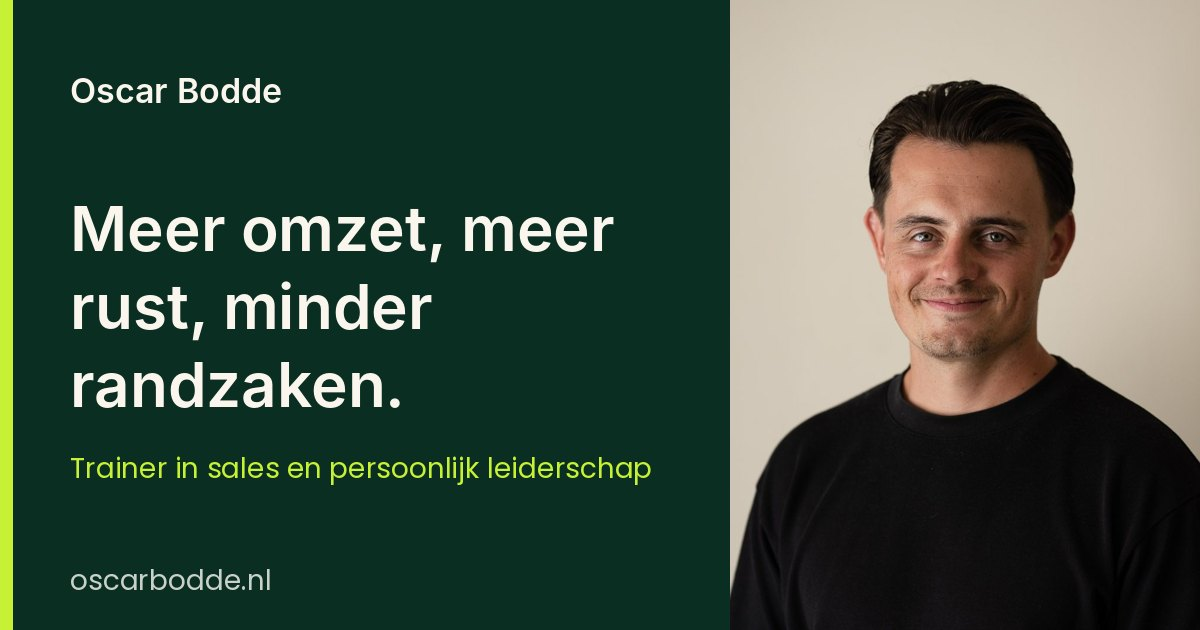
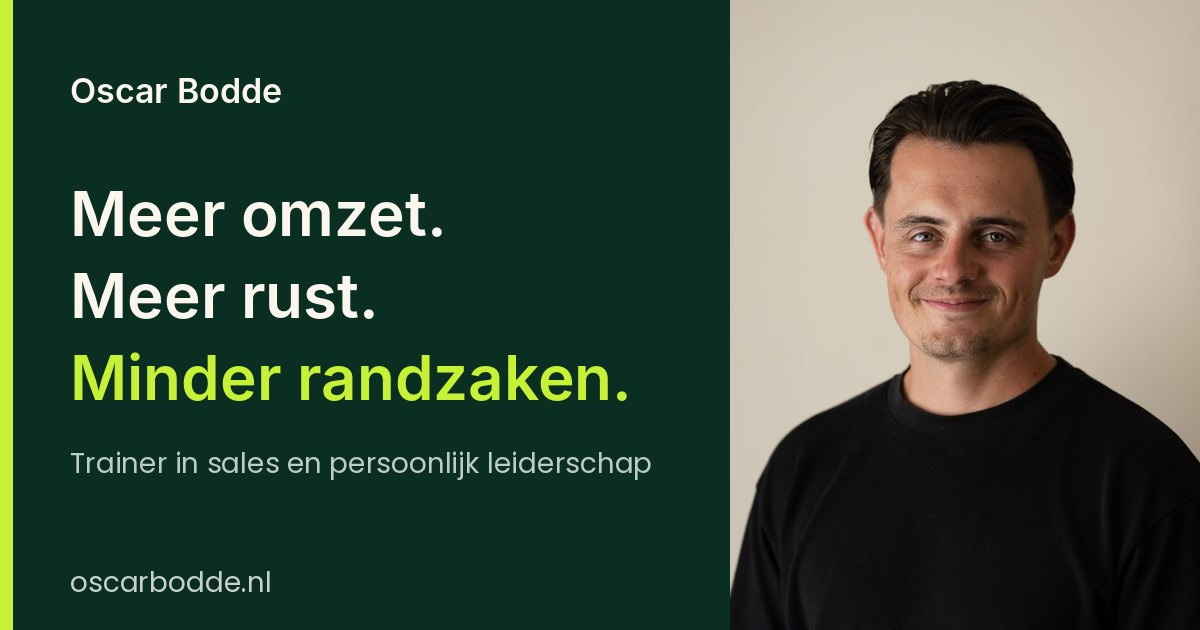
Add files via upload

Changed region(s): [[0.0617, 0.3016, 0.5242, 0.6635], [0.0617, 0.7238, 0.555, 0.7841], [0.0617, 0.9048, 0.2158, 0.9349]]

diff --git a/index.html b/index.html
@@ -4,7 +4,7 @@
 <meta charset="UTF-8">
 <meta name="viewport" content="width=device-width, initial-scale=1.0">
 <title>Oscar Bodde | Trainer sales en persoonlijk leiderschap | Apeldoorn</title>
-<meta name="description" content="Meer omzet, meer rust, minder randzaken. Oscar Bodde traint ondernemers in sales en persoonlijk leiderschap en bouwt systemen die het werk overnemen.">
+<meta name="description" content="Meer omzet. Meer rust. Minder randzaken. Oscar Bodde traint ondernemers in sales en persoonlijk leiderschap en bouwt systemen die het werk overnemen.">
 <meta name="robots" content="index, follow, max-image-preview:large">
 <link rel="canonical" href="https://oscarbodde.nl/">
 <script type="application/ld+json">
@@ -65,7 +65,7 @@
 <meta property="og:type" content="website">
 <meta property="og:site_name" content="Oscar Bodde">
 <meta property="og:title" content="Oscar Bodde | Trainer sales en persoonlijk leiderschap | Apeldoorn">
-<meta property="og:description" content="Meer omzet, meer rust, minder randzaken. Oscar Bodde traint ondernemers in sales en persoonlijk leiderschap en bouwt systemen die het werk overnemen.">
+<meta property="og:description" content="Meer omzet. Meer rust. Minder randzaken. Oscar Bodde traint ondernemers in sales en persoonlijk leiderschap en bouwt systemen die het werk overnemen.">
 <meta property="og:url" content="https://oscarbodde.nl/">
 <meta property="og:image" content="https://oscarbodde.nl/images/og-home.jpg">
 <meta property="og:image:width" content="1200">
@@ -79,7 +79,7 @@
 <link rel="preconnect" href="https://fonts.googleapis.com">
 <link rel="preconnect" href="https://fonts.gstatic.com" crossorigin>
 <link href="https://fonts.googleapis.com/css2?family=Inter:wght@400;500;600;700&family=Poppins:wght@400;500;600&display=swap" rel="stylesheet">
-<link rel="stylesheet" href="/site.css?v=4">
+<link rel="stylesheet" href="/site.css?v=5">
 </head>
 <body>
 <header>
@@ -99,7 +99,7 @@
   <div class="wrap hero-grid">
     <div>
       <span class="eyebrow">Trainer · Sales · Persoonlijk leiderschap · Systemen</span>
-      <h1>Meer omzet, meer rust, minder randzaken.</h1>
+      <h1><span class="hl-line">Meer omzet.</span> <span class="hl-line">Meer rust.</span> <span class="hl-line hl-accent">Minder randzaken.</span></h1>
       <p class="lead">Met sales, persoonlijk leiderschap en systemen die het werk overnemen. Ik train ondernemers en hun teams en bouw de systemen die het gedoe wegnemen.</p>
       <div class="hero-ctas">
         <a href="https://groeiscan.oscarbodde.nl/" class="cta-btn" target="_blank" rel="noopener">Doe de groeiscan</a>

diff --git a/site.css b/site.css
@@ -522,3 +522,6 @@
 
   a.textlink{color:var(--forest);text-decoration:underline;text-underline-offset:3px;text-decoration-color:var(--lime);text-decoration-thickness:2px;font-weight:500;}
   a.textlink:hover{background:var(--lime);text-decoration-color:transparent;}
+
+  .hero h1 .hl-line{display:block;}
+  .hero h1 .hl-accent{display:inline-block;background:linear-gradient(transparent 60%,var(--lime) 60%);padding-right:6px;margin-top:2px;}

diff --git a/commercie.html b/commercie.html
@@ -100,7 +100,7 @@
 <link rel="preconnect" href="https://fonts.googleapis.com">
 <link rel="preconnect" href="https://fonts.gstatic.com" crossorigin>
 <link href="https://fonts.googleapis.com/css2?family=Inter:wght@400;500;600;700&family=Poppins:wght@400;500;600&display=swap" rel="stylesheet">
-<link rel="stylesheet" href="/site.css?v=4">
+<link rel="stylesheet" href="/site.css?v=5">
 </head>
 <body>
 <header>

diff --git a/ontwikkeling.html b/ontwikkeling.html
@@ -100,7 +100,7 @@
 <link rel="preconnect" href="https://fonts.googleapis.com">
 <link rel="preconnect" href="https://fonts.gstatic.com" crossorigin>
 <link href="https://fonts.googleapis.com/css2?family=Inter:wght@400;500;600;700&family=Poppins:wght@400;500;600&display=swap" rel="stylesheet">
-<link rel="stylesheet" href="/site.css?v=4">
+<link rel="stylesheet" href="/site.css?v=5">
 </head>
 <body>
 <header>

diff --git a/systemen.html b/systemen.html
@@ -100,7 +100,7 @@
 <link rel="preconnect" href="https://fonts.googleapis.com">
 <link rel="preconnect" href="https://fonts.gstatic.com" crossorigin>
 <link href="https://fonts.googleapis.com/css2?family=Inter:wght@400;500;600;700&family=Poppins:wght@400;500;600&display=swap" rel="stylesheet">
-<link rel="stylesheet" href="/site.css?v=4">
+<link rel="stylesheet" href="/site.css?v=5">
 </head>
 <body>
 <header>

diff --git a/404.html b/404.html
@@ -23,7 +23,7 @@
 <link rel="preconnect" href="https://fonts.googleapis.com">
 <link rel="preconnect" href="https://fonts.gstatic.com" crossorigin>
 <link href="https://fonts.googleapis.com/css2?family=Inter:wght@400;500;600;700&family=Poppins:wght@400;500;600&display=swap" rel="stylesheet">
-<link rel="stylesheet" href="/site.css?v=4">
+<link rel="stylesheet" href="/site.css?v=5">
 </head>
 <body>
 <header>

diff --git a/over-mij.html b/over-mij.html
@@ -94,7 +94,7 @@
 <link rel="preconnect" href="https://fonts.googleapis.com">
 <link rel="preconnect" href="https://fonts.gstatic.com" crossorigin>
 <link href="https://fonts.googleapis.com/css2?family=Inter:wght@400;500;600;700&family=Poppins:wght@400;500;600&display=swap" rel="stylesheet">
-<link rel="stylesheet" href="/site.css?v=4">
+<link rel="stylesheet" href="/site.css?v=5">
 </head>
 <body>
 <header>
